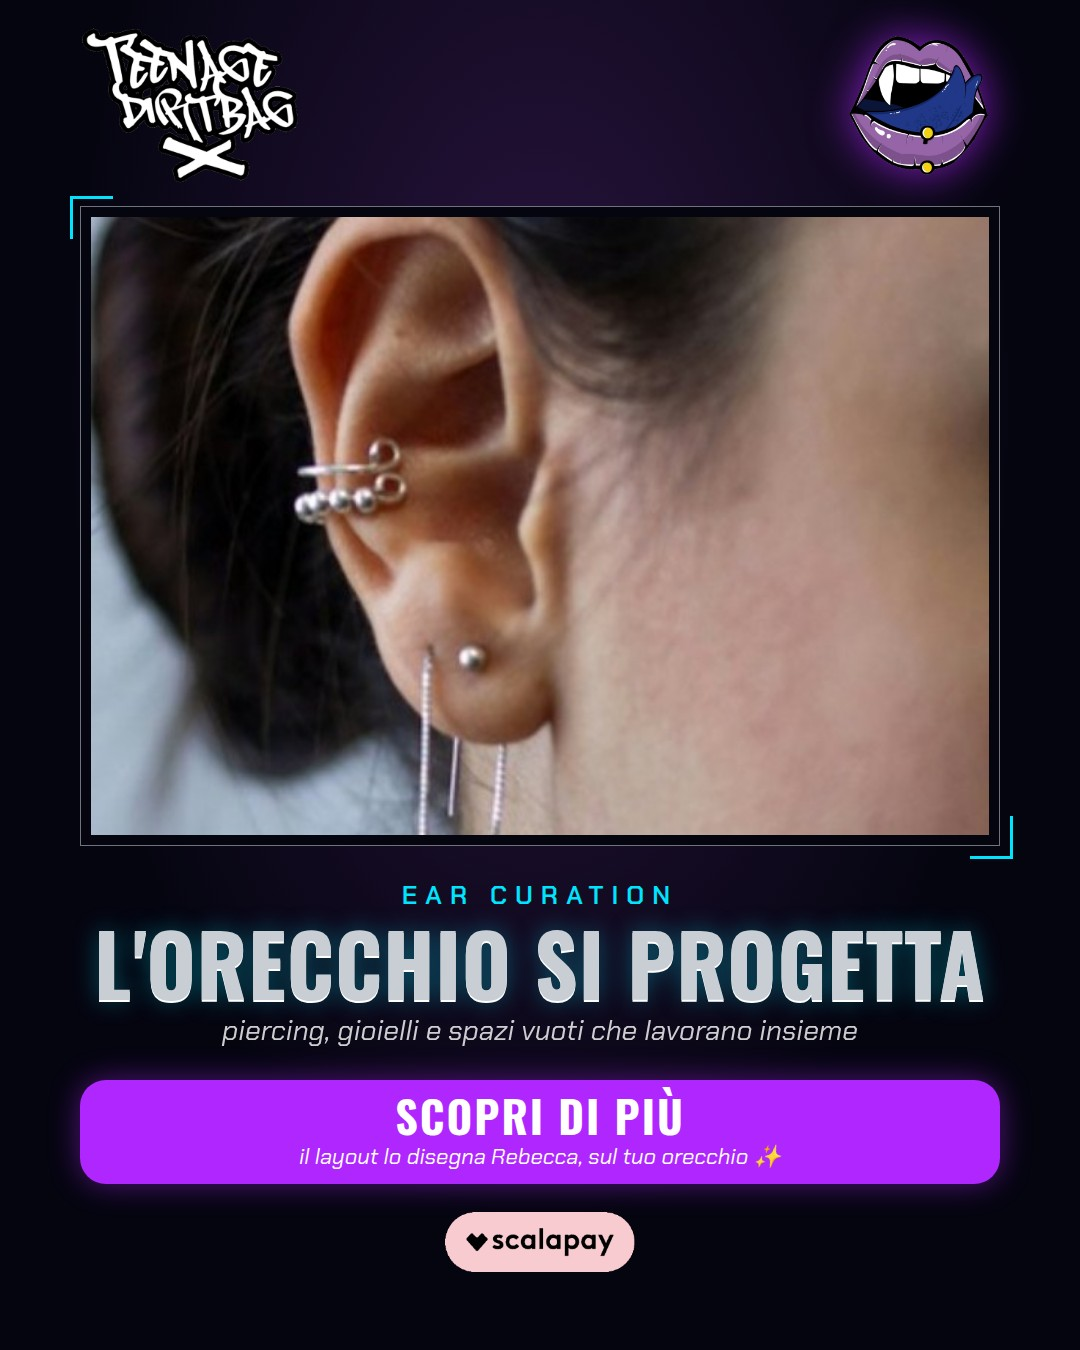
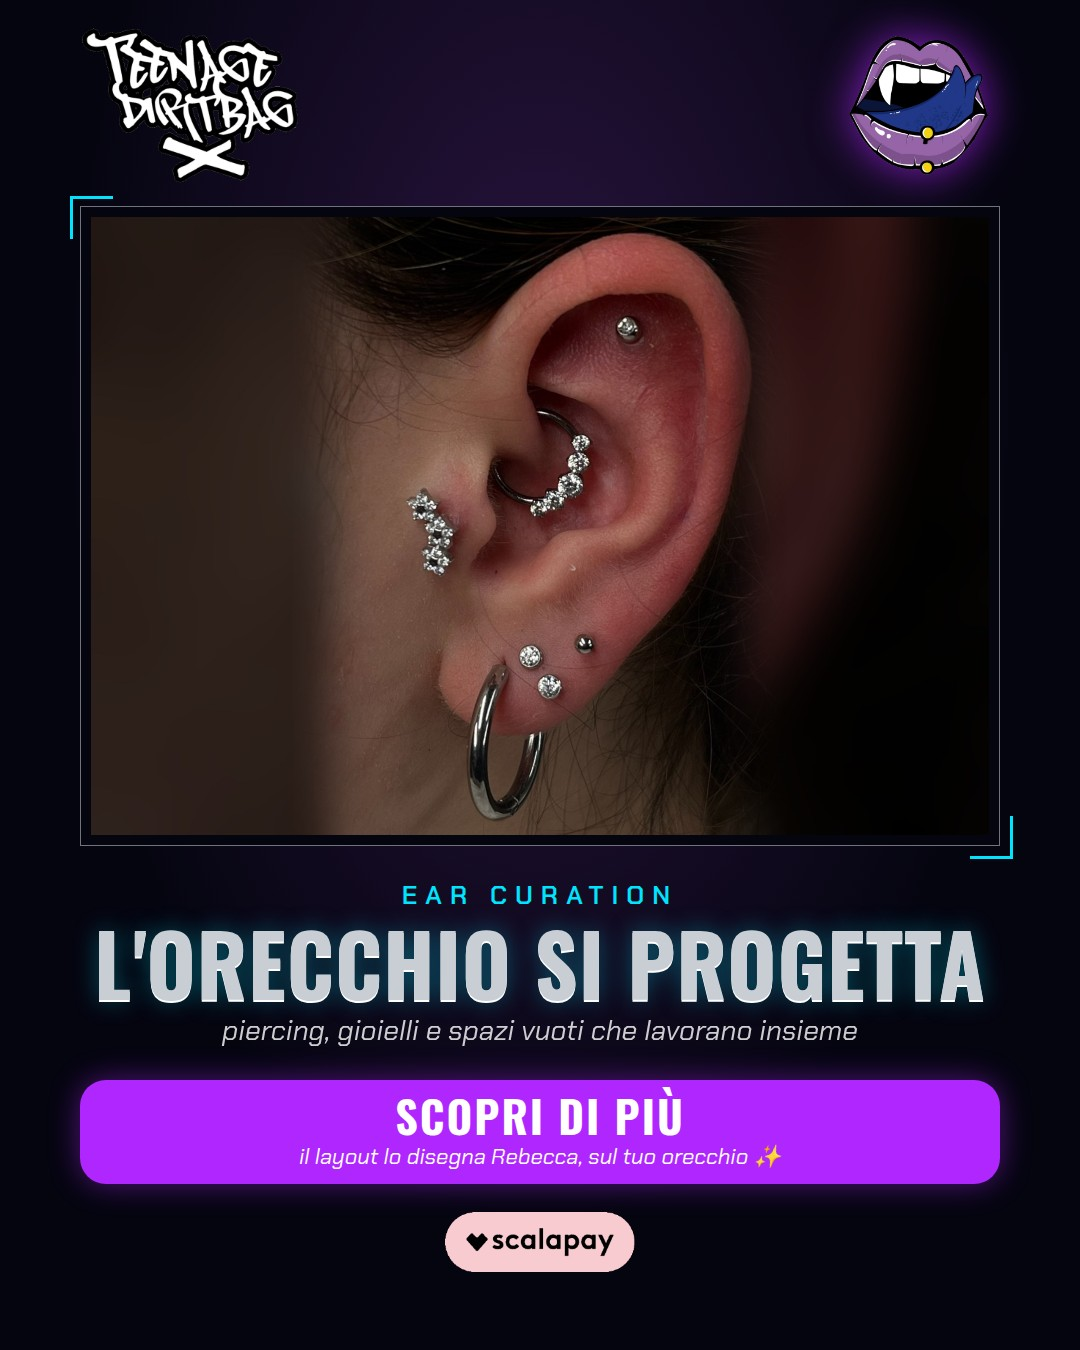
Kit 17/11 Ear curation: foto di Rebecca
Claude-Session: https://claude.ai/code/session_018e633fsSQJhpoVmRosbx8e

diff --git a/email/1711.html b/email/1711.html
@@ -10,7 +10,7 @@
 
 <div style="background: #050510; font-family: 'Chakra Petch', sans-serif; color: #ffffff; max-width: 600px; margin: 0 auto">
 <div style="padding: 24px 32px"><table border="0" cellpadding="0" cellspacing="0" role="presentation" width="100%"><tr><td align="left" style="" valign="middle"><img alt="Teenage Dirtbag" src="https://raw.githubusercontent.com/debbymasini-dev/messenger/kit-assets/lettering.png" style="width: 150px; max-width: 100%; height: auto; display: block; border: 0" width="150"/></td><td align="right" style="" valign="middle"><img alt="Logo bocca" src="https://raw.githubusercontent.com/debbymasini-dev/messenger/kit-assets/bocca.png" style="width: 112px; max-width: 100%; height: auto; display: block; border: 0" width="112"/></td></tr></table></div>
-<img alt="Orecchio pieno di piercing con gioielli in argento" src="https://raw.githubusercontent.com/debbymasini-dev/messenger/kit-assets/email/1711-img1.jpg" style="width: 600px; max-width: 100%; height: auto; display: block; border: 0" width="600"/>
+<img alt="Orecchio curato da Rebecca: cluster nel conch, daith, helix e lobi con brillantini" src="https://raw.githubusercontent.com/debbymasini-dev/messenger/kit-assets/email/1711-img1.jpg" style="width: 600px; max-width: 100%; height: auto; display: block; border: 0" width="600"/>
 <div style="padding: 34px 40px 0 40px">
 <div style="font-size: 15px; font-weight: 600; letter-spacing: 6px; color: #00E5FF">EAR CURATION</div>
 <div style="font-family: 'Oswald', sans-serif; font-weight: 700; font-size: 46px; line-height: 1.02; color: #C9CDD4; margin-top: 14px">L'ORECCHIO NON SI BUCA, SI PROGETTA</div>
@@ -38,7 +38,7 @@
 <div style="font-size: 16px">Ci vediamo in studio 💜</div>
 <div style="font-size: 14px; font-weight: 600; margin-top: 14px"><table align="center" border="0" cellpadding="0" cellspacing="0" role="presentation"><tr><td style="padding: 0 9px; font-size: 14px; font-weight: 600" valign="middle"><a href="https://www.instagram.com/__teenage_dirtbag__" style="color: #00E5FF">Instagram</a></td><td style="padding: 0 9px; font-size: 14px; font-weight: 600" valign="middle"><a href="https://www.facebook.com/share/1V3Xd1A6zq/" style="color: #00E5FF">Facebook</a></td><td style="padding: 0 9px; font-size: 14px; font-weight: 600" valign="middle"><a href="https://www.tiktok.com/@__teenagedirtbag__" style="color: #00E5FF">TikTok</a></td><td style="padding: 0 9px; font-size: 14px; font-weight: 600" valign="middle"><a href="https://wa.me/393314030216" style="color: #00E5FF">WhatsApp</a></td><td style="padding: 0 9px; font-size: 14px; font-weight: 600" valign="middle"><a href="mailto:info@teenagedirtbag.it" style="color: #00E5FF">Email</a></td></tr></table></div>
 <img alt="Scalapay - paga a rate" src="https://raw.githubusercontent.com/debbymasini-dev/messenger/kit-assets/scalapay.png" style="width: 170px; max-width: 100%; height: auto; display: inline-block; border: 0; margin-top: 14px" width="170"/>
-<div style="font-size: 13px; color: #C9CDD4; text-align: center; margin-top: 14px">📍 Via Giardini 86, Pavullo nel Frignano (MO)<br/>Foto: Kimia Zarifi · Unsplash<br/>© Teenage Dirtbag Tattoo Studio · <a href="*|UNSUB|*" style="color: inherit; text-decoration: underline">Annulla iscrizione</a></div>
+<div style="font-size: 13px; color: #C9CDD4; text-align: center; margin-top: 14px">📍 Via Giardini 86, Pavullo nel Frignano (MO)<br/>Foto: Rebecca @beb_piercing<br/>© Teenage Dirtbag Tattoo Studio · <a href="*|UNSUB|*" style="color: inherit; text-decoration: underline">Annulla iscrizione</a></div>
 </div>
 </div>
 
